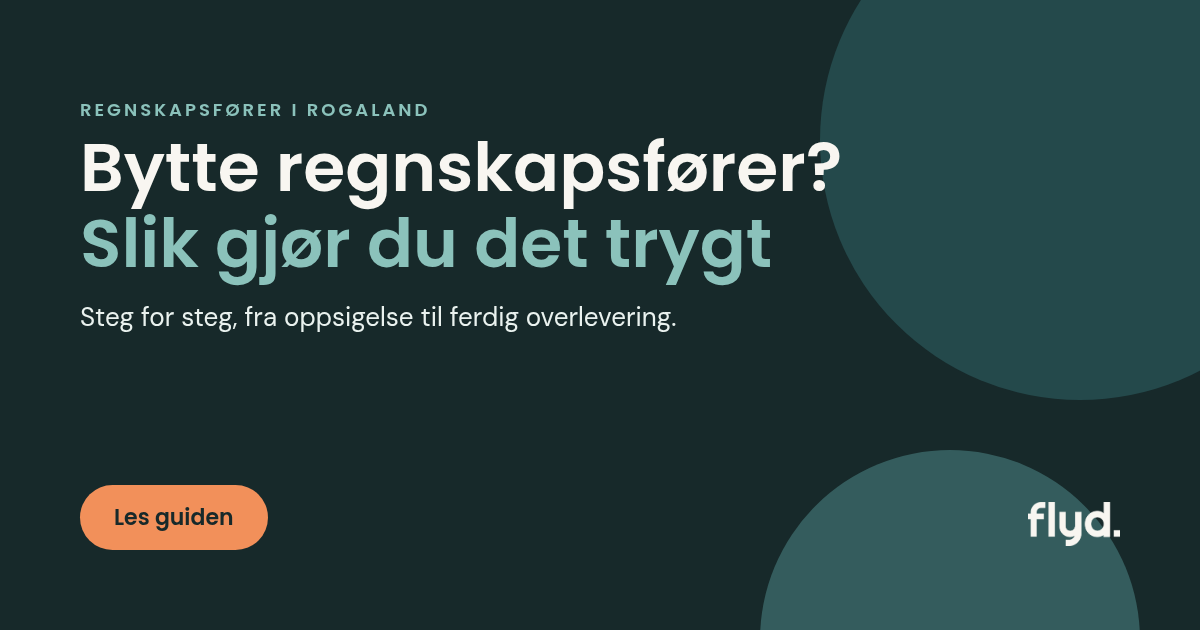
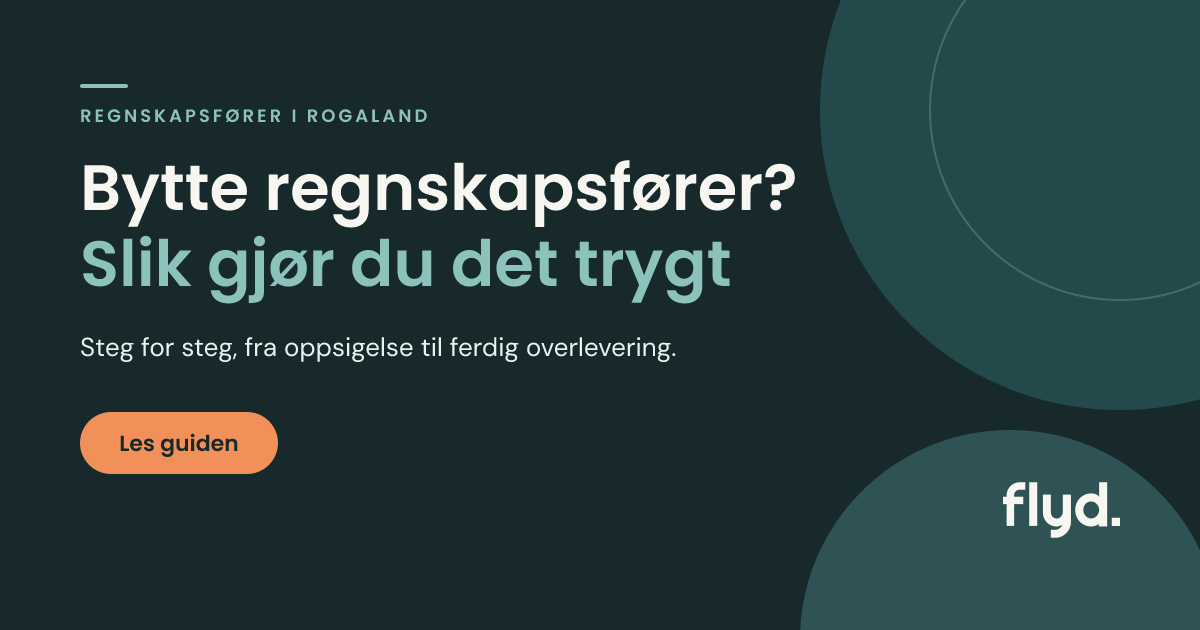
Bytte regnskapsfører: designrevisjon v2 etter skissen
Heroen er en innfelt Skog-flate med dekorsirkler og eneste Korall-knapp på
siden. Stegene står i to kolonner som Sand-kort med kantlinje, og FAQ-en er
Lys mint-kort på Sand. Petrol-boksen avslutter siden med Mint-konturknapp og
dekor. ClosingCta er tatt ut, så siden bare har én Korall-knapp. Teksten fra
den står nå i Petrol-boksen.

Nytt delingsbilde (v2, 1200×630, samme filnavn).

diff --git a/app/bytte-regnskapsforer/page.tsx b/app/bytte-regnskapsforer/page.tsx
@@ -4,7 +4,6 @@ import { Check, Plus } from 'lucide-react';
 import Container from '@/components/Container';
 import Section from '@/components/Section';
 import Eyebrow from '@/components/Eyebrow';
-import ClosingCta from '@/components/ClosingCta';
 import Breadcrumbs from '@/components/Breadcrumbs';
 import Bekreft from '@/components/Bekreft';
 import JsonLd from '@/components/JsonLd';
@@ -73,7 +72,7 @@ function Punkter({ items, linje = 'sand' }: { items: React.ReactNode[]; linje?: 
   );
 }
 
-// Stegkortene står på Lys mint, så lister og sitat bruker Lys mint-linjer og Sand-flate.
+// Stegkortene er Sand med Sand-linje (skissen), så lister bruker Sand-linjer og sitatet Lys mint-flate.
 const steg: { tittel: string; innhold: React.ReactNode }[] = [
   {
     tittel: 'Les oppdragsavtalen',
@@ -81,7 +80,6 @@ const steg: { tittel: string; innhold: React.ReactNode }[] = [
       <>
         <p className={brod}>Finn fram avtalen med regnskapsføreren du har i dag, og se etter dette:</p>
         <Punkter
-          linje="mint"
           items={[
             'Oppsigelsestid og eventuell bindingstid',
             'Hva som skal leveres når oppdraget avsluttes, og i hvilket format',
@@ -125,7 +123,6 @@ const steg: { tittel: string; innhold: React.ReactNode }[] = [
           samtidig hvem som leverer:
         </p>
         <Punkter
-          linje="mint"
           items={[
             'Siste mva-melding før byttet',
             'Siste a-melding før byttet',
@@ -133,7 +130,7 @@ const steg: { tittel: string; innhold: React.ReactNode }[] = [
           ]}
         />
         <p className={`mt-5 ${brod}`}>Du kan bruke denne teksten som utgangspunkt:</p>
-        <blockquote className="mt-4 rounded-flis bg-flyd-sand p-6 text-[16px] leading-relaxed text-flyd-skog md:p-7">
+        <blockquote className="mt-4 rounded-flis bg-flyd-lysmint p-6 text-[16px] leading-relaxed text-flyd-skog md:p-7">
           Vi sier med dette opp oppdragsavtalen om regnskapstjenester for (selskapsnavn), org.nr. (nummer), med
           virkning fra (dato). Vi ber om skriftlig bekreftelse på oppsigelsen og på hvem som leverer mva-melding og
           a-melding for (termin og måned). Ny regnskapsfører er (navn), som tar kontakt om overlevering av
@@ -155,7 +152,6 @@ const steg: { tittel: string; innhold: React.ReactNode }[] = [
           overføres regnskapsdataene i SAF-T Regnskap hvis ikke annet er avtalt. Be om:
         </p>
         <Punkter
-          linje="mint"
           items={[
             'Bilag, hovedbok og saldobalanse',
             'Kunde- og leverandørreskontro',
@@ -294,33 +290,47 @@ export default function BytteRegnskapsforerPage() {
       <JsonLd data={articleJsonLd} />
       <JsonLd data={faqJsonLd} />
 
-      {/* HERO + KORTSVAR – Skog, som i utkastet */}
-      <Section tone="skog" className="pt-10 md:pt-14" flyt>
-        <Container>
-          <Breadcrumbs tone="dark" items={[{ name: 'Bytte regnskapsfører', href: g.path }]} />
-          <div className="mt-10 max-w-3xl">
-            <Eyebrow tone="dark">Guide · Regnskapsfører</Eyebrow>
-            <h1 className="mt-6 font-display text-display-xl font-semibold text-flyd-sand">{g.h1}</h1>
-            <p className="mt-8 max-w-2xl font-display text-ingress font-medium text-flyd-dempet">
-              Ja, du kan bytte regnskapsfører når som helst, også midt i året. Les oppdragsavtalen, velg ny
-              regnskapsfører, si opp skriftlig med en sluttdato og avtal overlevering av regnskapsmaterialet, normalt
-              som SAF-T. Meld så ny regnskapsfører i Enhetsregisteret, og gi tilganger i Altinn og regnskapssystemet.
-              Den nye regnskapsføreren hjelper deg med det meste.
-            </p>
-            <p className="mt-6 text-[15px] text-flyd-dempet">
-              Sist oppdatert <time dateTime={g.modified}>12. oktober 2026</time>.
-            </p>
-            <div className="mt-10 flex flex-wrap items-center gap-4">
-              <ButtonLink href={kontakt} variant="primary-dark" withArrow>
-                Snakk med oss
-              </ButtonLink>
-              <ButtonLink href="#sjekkliste" variant="secondary-dark">
-                Gå til sjekklisten
-              </ButtonLink>
+      {/* HERO + KORTSVAR – innfelt Skog-flate på Sand, som i skissen. Eneste Korall-knapp på siden. */}
+      <section className="bg-flyd-sand px-3 pt-3 md:px-4 md:pt-4">
+        <div className="on-dark relative overflow-hidden rounded-bilde bg-flyd-skog py-14 text-flyd-sand md:py-20">
+          <Container className="relative">
+            <Breadcrumbs tone="dark" items={[{ name: 'Bytte regnskapsfører', href: g.path }]} />
+            <div className="mt-10 grid grid-cols-1 items-center gap-12 lg:grid-cols-12">
+              <div className="lg:col-span-8">
+                <span className="block h-0.5 w-10 bg-flyd-mint" aria-hidden="true" />
+                <Eyebrow tone="petrol" className="mt-5">
+                  Guide · Regnskapsfører
+                </Eyebrow>
+                <h1 className="mt-5 font-display text-display-xl font-semibold text-flyd-sand">{g.h1}</h1>
+                <p className="mt-8 max-w-2xl font-display text-ingress font-medium text-flyd-dempet">
+                  Ja, du kan bytte regnskapsfører når som helst, også midt i året. Les oppdragsavtalen, velg ny
+                  regnskapsfører, si opp skriftlig med en sluttdato og avtal overlevering av regnskapsmaterialet,
+                  normalt som SAF-T. Meld så ny regnskapsfører i Enhetsregisteret, og gi tilganger i Altinn og
+                  regnskapssystemet. Den nye regnskapsføreren hjelper deg med det meste.
+                </p>
+                <p className="mt-6 text-[15px] text-flyd-dempet">
+                  Sist oppdatert <time dateTime={g.modified}>12. oktober 2026</time>.
+                </p>
+                <div className="mt-10 flex flex-wrap items-center gap-4">
+                  <ButtonLink href={kontakt} variant="primary-dark" withArrow>
+                    Snakk med oss
+                  </ButtonLink>
+                  <ButtonLink href="#sjekkliste" variant="secondary-dark">
+                    Gå til sjekklisten
+                  </ButtonLink>
+                </div>
+              </div>
+              {/* Dekor: Petrol-sirkel med Mint-ring og Mint-prikk */}
+              <div className="hidden justify-end lg:col-span-4 lg:flex" aria-hidden="true">
+                <div className="relative aspect-square w-full max-w-[380px] rounded-full bg-flyd-petrol">
+                  <div className="absolute inset-[13%] rounded-full border border-flyd-mint/50" />
+                  <div className="absolute bottom-[10%] right-[10%] h-[28%] w-[28%] rounded-full bg-flyd-mint/90" />
+                </div>
+              </div>
             </div>
-          </div>
-        </Container>
-      </Section>
+          </Container>
+        </div>
+      </section>
 
       {/* SEKS STEG – kort med nummer */}
       <Section tone="sand" id="steg">
@@ -335,12 +345,12 @@ export default function BytteRegnskapsforerPage() {
               normalt mye av arbeidet.
             </p>
           </div>
-          <ol className="mt-12 max-w-4xl space-y-4 md:space-y-5">
+          <ol className="mt-12 grid grid-cols-1 gap-4 md:gap-5 lg:grid-cols-2">
             {steg.map((s, i) => (
               <li
                 key={s.tittel}
                 data-reveal
-                className="flex gap-5 rounded-kort bg-flyd-lysmint p-6 md:gap-7 md:p-8"
+                className="flex gap-5 rounded-kort border border-flyd-linje-sand bg-flyd-sand p-6 md:gap-6 md:p-8"
               >
                 <span
                   className="flex h-10 w-10 flex-shrink-0 items-center justify-center rounded-full bg-flyd-petrol font-display text-[18px] font-semibold tabular-nums text-flyd-sand"
@@ -349,7 +359,7 @@ export default function BytteRegnskapsforerPage() {
                   {i + 1}
                 </span>
                 <div className="min-w-0 flex-1">
-                  <h3 className="font-display text-[22px] font-semibold leading-[1.3] md:pt-1">
+                  <h3 className="font-display text-[20px] font-semibold leading-[1.3] md:pt-1">
                     <span className="sr-only">Steg {i + 1}: </span>
                     {s.tittel}
                   </h3>
@@ -453,15 +463,15 @@ export default function BytteRegnskapsforerPage() {
         </Container>
       </Section>
 
-      {/* OFTE STILTE SPØRSMÅL */}
-      <Section tone="lysmint" id="sporsmal">
+      {/* OFTE STILTE SPØRSMÅL – Lys mint-kort på Sand, som i skissen */}
+      <Section tone="sand" id="sporsmal" className="pt-0 md:pt-0">
         <Container>
-          <div className="max-w-3xl" data-reveal>
+          <div className="border-t border-flyd-linje-sand pt-20 md:pt-28" data-reveal>
             <Eyebrow>Spørsmål og svar</Eyebrow>
-            <h2 className={`mt-5 ${h2}`}>Ofte stilte spørsmål om å bytte regnskapsfører</h2>
-            <div className="mt-8 space-y-3">
+            <h2 className={`mt-5 max-w-3xl ${h2}`}>Ofte stilte spørsmål om å bytte regnskapsfører</h2>
+            <div className="mt-8 max-w-4xl space-y-3">
               {bytteFaq.map((f) => (
-                <details key={f.q} className="faq group rounded-kort bg-flyd-sand px-6 md:px-7">
+                <details key={f.q} className="faq group rounded-kort bg-flyd-lysmint px-6 md:px-7">
                   <summary className="flex cursor-pointer list-none items-center justify-between gap-6 rounded-flis py-5 font-display text-[18px] font-semibold text-flyd-skog transition-colors duration-200 hover:text-flyd-petrol">
                     {f.q}
                     <Plus className="faq-pil h-5 w-5 flex-shrink-0 text-flyd-teal" strokeWidth={2} aria-hidden="true" />
@@ -481,40 +491,21 @@ export default function BytteRegnskapsforerPage() {
         </Container>
       </Section>
 
-      {/* HVA FLYD GJØR – Petrol-kort på Sand, som i utkastet */}
-      <Section tone="sand" id="flyd">
+      {/* HVA FLYD GJØR – Petrol-kort rett under FAQ, som i skissen. Avslutter siden; knappen er Mint-kontur, ikke Korall. */}
+      <Section tone="sand" id="flyd" className="pt-0 md:pt-0">
         <Container>
           <div className="on-dark grid grid-cols-1 gap-12 rounded-bilde bg-flyd-petrol p-8 text-flyd-sand md:p-12 lg:grid-cols-12 lg:gap-16 lg:p-14">
-            <div className="lg:col-span-5" data-reveal>
+            <div className="lg:col-span-8" data-reveal>
               <Eyebrow tone="petrol">Rogaland og Agder</Eyebrow>
               <h2 className="mt-5 font-display text-display-md font-semibold text-flyd-sand">
                 Hva gjør Flyd for deg når du bytter?
               </h2>
-              <p className="mt-6 max-w-md text-[17px] leading-[1.65] text-flyd-dempet">
+              <p className="mt-6 max-w-xl text-[17px] leading-[1.65] text-flyd-dempet">
                 Du skal ikke måtte kunne prosessen for å bytte. Når du har sagt ja, tar vi oss av overgangen.
               </p>
-              <p className="mt-6 max-w-md text-[17px] leading-[1.65] text-flyd-dempet">
-                Vi har kontorer i Rogaland og Agder. Ser du etter en{' '}
-                <Link
-                  href="/kontor/stavanger-sandnes/"
-                  className="font-medium text-flyd-sand underline decoration-flyd-mint decoration-2 underline-offset-4 transition-colors duration-200 hover:text-flyd-mint"
-                >
-                  regnskapsfører i Stavanger
-                </Link>
-                , sitter vi på Forus, midt i Stavanger-regionen.
-              </p>
-              <div className="mt-8 flex flex-col items-start gap-3">
-                <TextLink href="/kontor/" tone="dark">
-                  Finn nærmeste kontor
-                </TextLink>
-                <TextLink href="/tjenester/" tone="dark">
-                  Se alle tjenestene våre
-                </TextLink>
-              </div>
-            </div>
-            <div className="lg:col-span-7" data-reveal>
               <NumberedList
                 tone="dark"
+                className="mt-8"
                 items={[
                   'Vi tar kontakt med den forrige regnskapsføreren før vi tar oppdraget, slik regnskapsførerloven § 5-1 krever, og følger opp overleveringen.',
                   'Vi henter inn tidligere år fra SAF-T og legger inn åpningsbalansen for inneværende år i Tripletex, med åpne poster.',
@@ -529,22 +520,41 @@ export default function BytteRegnskapsforerPage() {
               <Bekreft className="mt-4">
                 kort kundecase eller sitat fra en kunde som har byttet til Flyd, med navn og samtykke
               </Bekreft>
-              <div className="mt-8">
-                <ButtonLink href={kontakt} variant="primary-dark" withArrow>
+              <p className="mt-8 max-w-xl text-[17px] leading-[1.65] text-flyd-dempet">
+                Vi har kontorer i Rogaland og Agder. Ser du etter en{' '}
+                <Link
+                  href="/kontor/stavanger-sandnes/"
+                  className="font-medium text-flyd-sand underline decoration-flyd-mint decoration-2 underline-offset-4 transition-colors duration-200 hover:text-flyd-mint"
+                >
+                  regnskapsfører i Stavanger
+                </Link>
+                , sitter vi på Forus, midt i Stavanger-regionen.
+              </p>
+              <p className="mt-4 max-w-xl text-[17px] leading-[1.65] text-flyd-dempet">
+                Ta en uforpliktende prat med oss. Vi ser på avtalen og systemet du har i dag, og forteller deg hvordan
+                et bytte vil gå for deg.
+              </p>
+              <div className="mt-8 flex flex-wrap items-center gap-x-8 gap-y-5">
+                <ButtonLink href={kontakt} variant="secondary-dark" withArrow>
                   Snakk med oss
                 </ButtonLink>
+                <TextLink href="/kontor/" tone="dark">
+                  Finn nærmeste kontor
+                </TextLink>
+                <TextLink href="/tjenester/" tone="dark">
+                  Se alle tjenestene våre
+                </TextLink>
+              </div>
+            </div>
+            {/* Dekor: Mint-ring med Flyd-teal-prikk */}
+            <div className="hidden items-center justify-center lg:col-span-4 lg:flex" aria-hidden="true">
+              <div className="flex aspect-square w-full max-w-[260px] items-center justify-center rounded-full border border-flyd-mint/50">
+                <div className="h-[38%] w-[38%] rounded-full bg-flyd-teal" />
               </div>
             </div>
           </div>
         </Container>
       </Section>
-
-      <ClosingCta
-        kicker="Neste steg"
-        title="Vurderer du å bytte regnskapsfører?"
-        text="Ta en uforpliktende prat med oss. Vi ser på avtalen og systemet du har i dag, og forteller deg hvordan et bytte vil gå for deg."
-        primary={{ href: kontakt, label: 'Snakk med oss' }}
-      />
     </>
   );
 }
